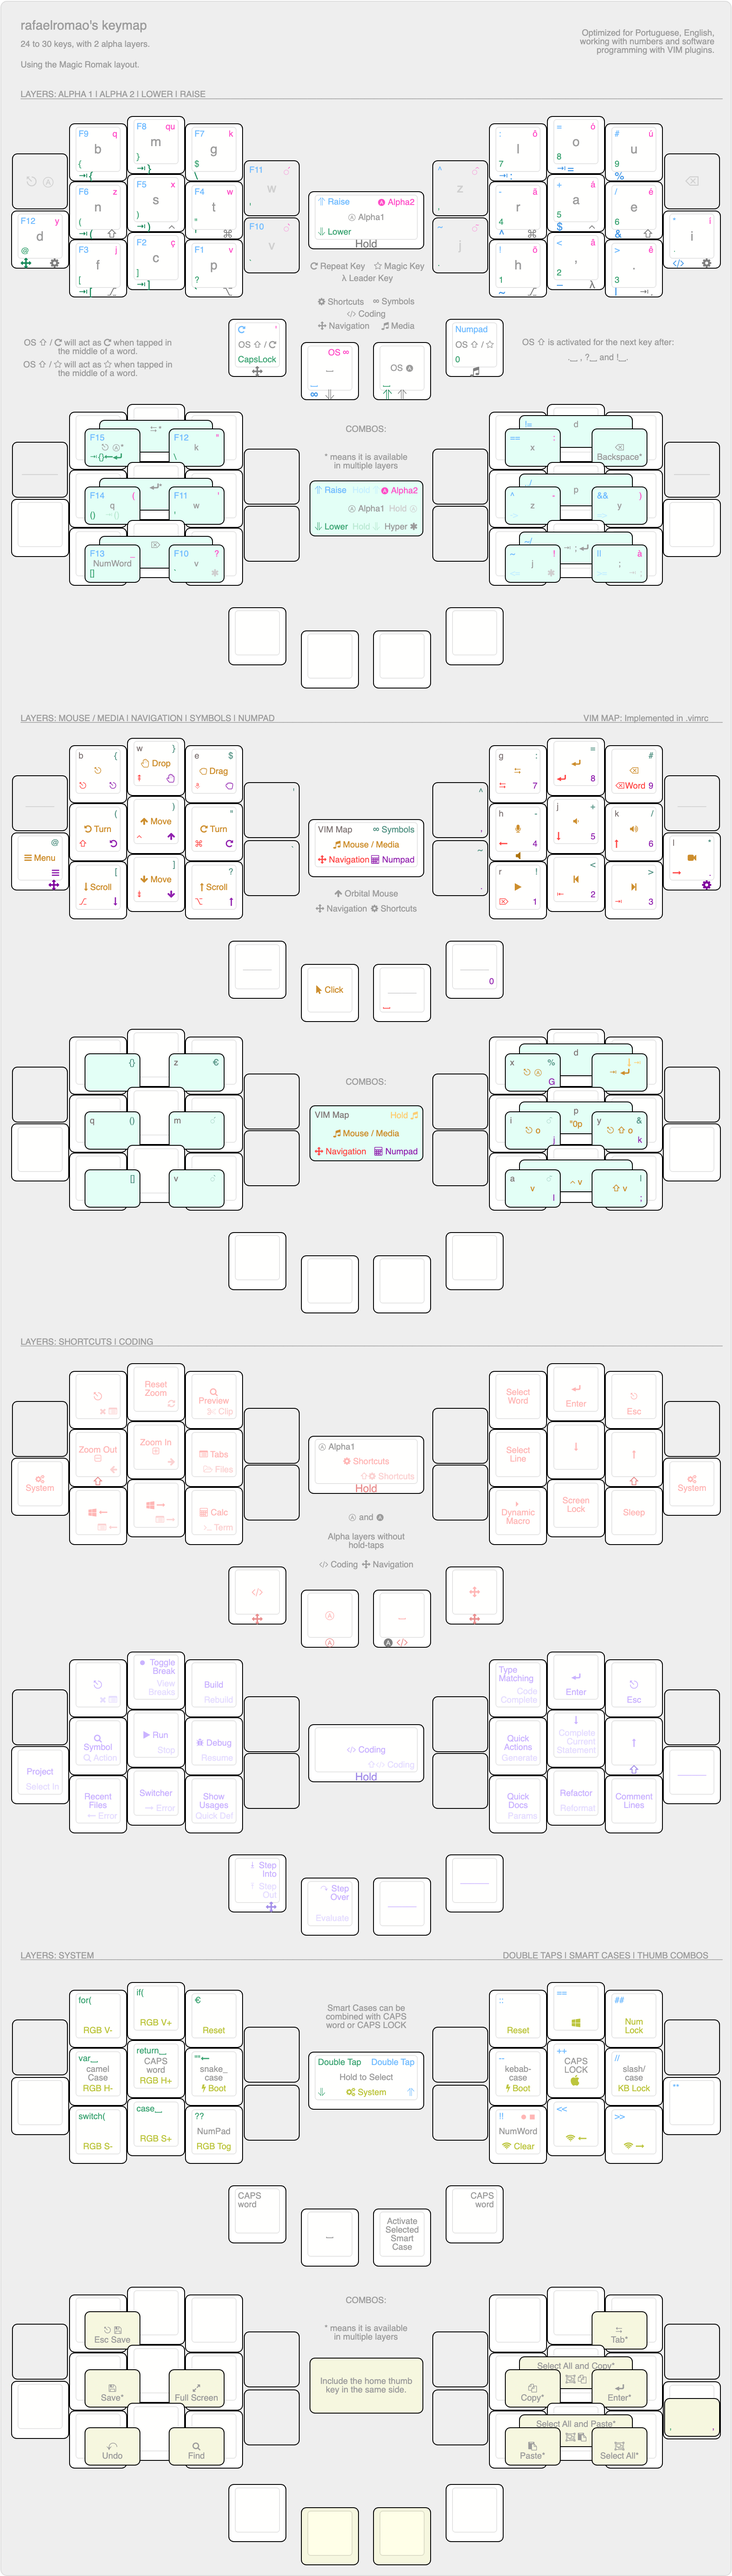
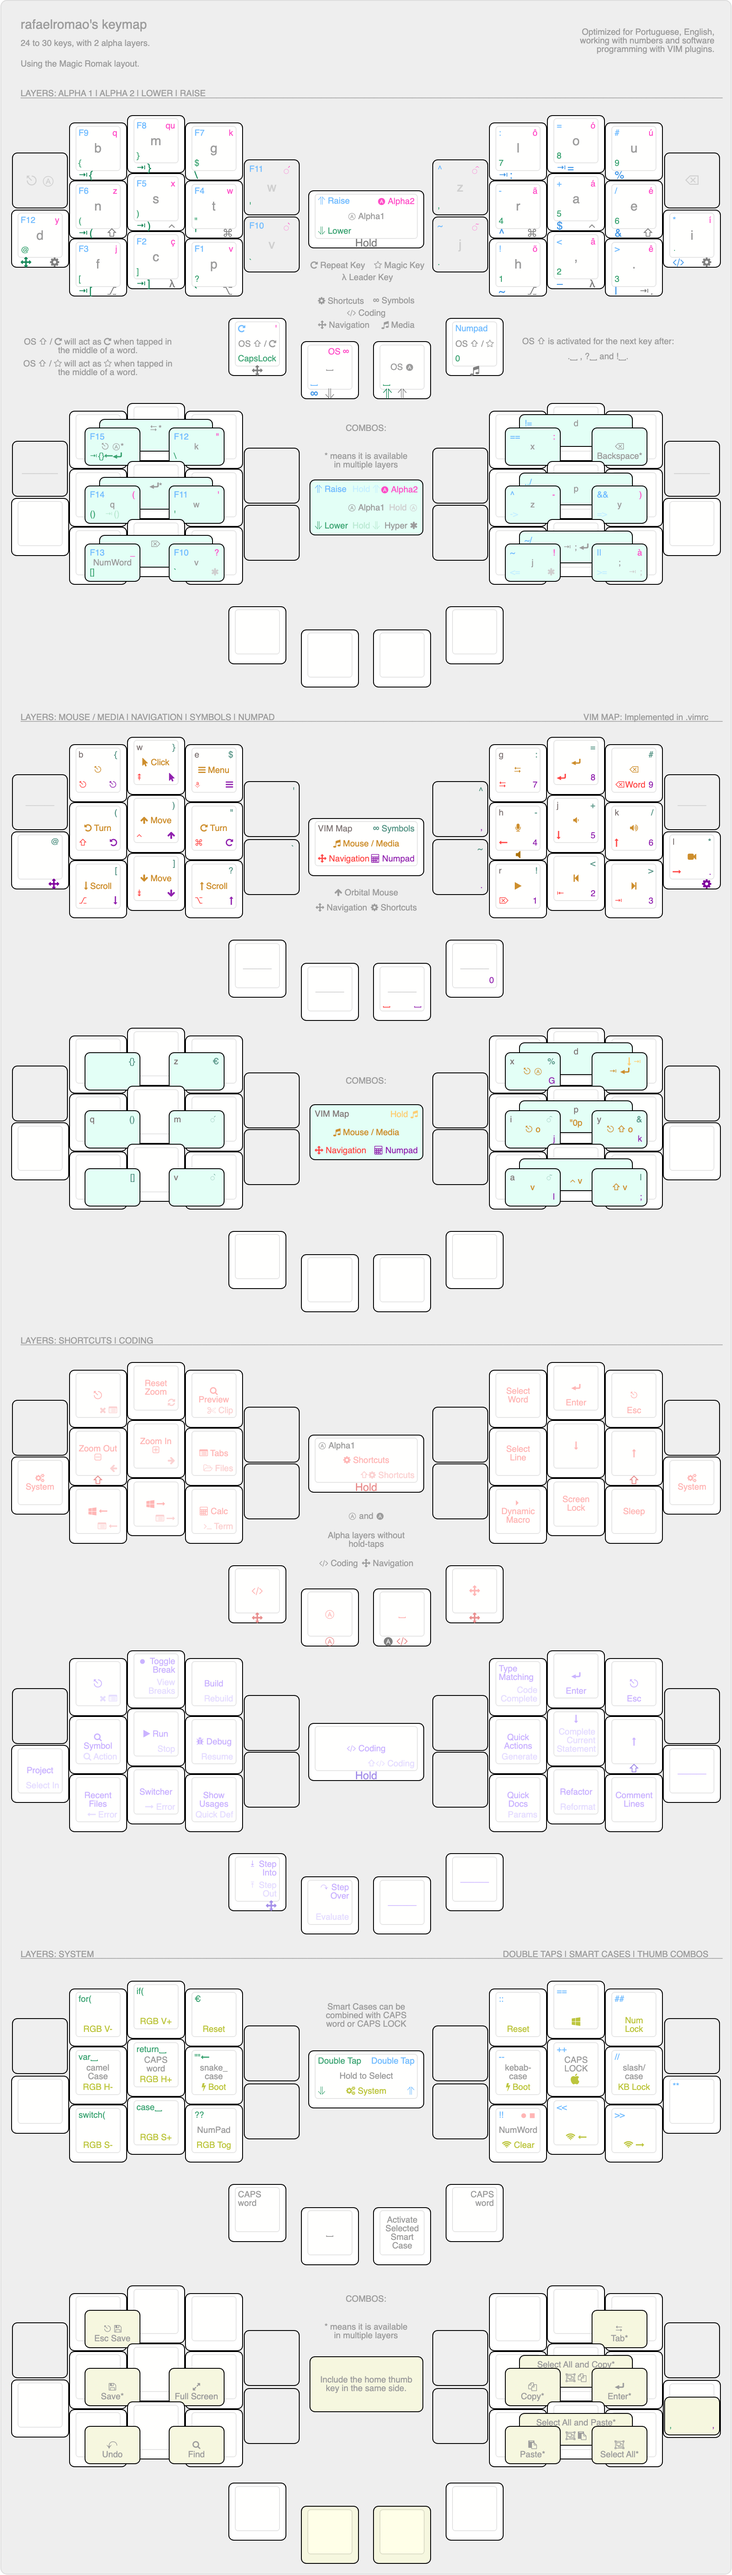
fix smartcase

diff --git a/src/qmk/users/rafaelromao/definitions/keymap_blocks.h b/src/qmk/users/rafaelromao/definitions/keymap_blocks.h
@@ -7,7 +7,7 @@
 
 #define __________________ALPHA1_L1__________           MC_ESCC , KC_B    , KC_M    , KC_G    
 #define __________________ALPHA1_L2____________________ SHO_KCD , LSFTT_N , LCTLT_S , LGUIT_T , KC_W
-#define           ________ALPHA1_L3____________________           RALTT_F , KC_C    , LALTT_P , KC_V
+#define           ________ALPHA1_L3____________________           RALTT_F , LEA_KCC , LALTT_P , KC_V
 #define                               ___ALPHA1_L4_____                               NAV_CAS , LOW_SPC
 
 #define           ________ALPHA1_R1____________________           KC_L    , KC_O    , KC_U    , KC_BSPC
@@ -35,10 +35,10 @@
 #define ___________________RAISE_R3__________           MC_TILD , TD_EXLM , TD_LT   , TD_GT     
 #define ____RAISE_R4_____                               _______ , TG_NUM
 
-#define ___________________NUMPAD_L1_________           _______ , MC_ESC  , OM_RELS , OM_HLDS  
-#define ___________________NUMPAD_L2___________________ OM_BTN2 , OM_L    , OM_U    , OM_R    , XXXXXXX
+#define ___________________NUMPAD_L1_________           _______ , MC_ESC  , OM_BTN1 , OM_BTN2  
+#define ___________________NUMPAD_L2___________________ XXXXXXX , OM_L    , OM_U    , OM_R    , XXXXXXX
 #define           _________NUMPAD_L3___________________           OM_W_D  , OM_D    , OM_W_U  , XXXXXXX
-#define                               ____NUMPAD_L4____                               NAV_FCA , OM_BTNS
+#define                               ____NUMPAD_L4____                               NAV_FCA , _______
 
 #define           _________NUMPAD_R1___________________           KC_7    , KC_8    , KC_9    , _______
 #define ___________________NUMPAD_R2___________________ KC_COMM , KC_4    , KC_5    , KC_6    , SHO_DOT
@@ -73,7 +73,7 @@
 #define           _________NOMOD_R1____________________           KC_L    , KC_O    , KC_U    , KC_Y
 #define ___________________NOMOD_R2____________________ KC_Z    , KC_R    , KC_A    , KC_E    , KC_I
 #define ___________________NOMOD_R3__________           KC_J    , KC_H    , KC_COMM , KC_DOT  
-#define ____NOMOD_R4_____                               MO_A2   , OS_LSFT
+#define ____NOMOD_R4_____                               OSL_A2  , OS_LSFT
 
 #define ___________________ALPHA2_L1_________           XXXXXXX , KC_Q    , MC_QU   , KC_K
 #define ___________________ALPHA2_L2___________________ KC_Y    , KC_Z    , KC_X    , KC_W    , KC_QUOT
@@ -107,10 +107,10 @@
 #define __NAVIGATION_R4__                               KC_SPC  , MED_CAS
 #define __FIXED_NAV__R4__                               KC_SPC  , TO_A1
 
-#define ___________________MEDIA_L1__________           _______ , MC_ESC  , OM_RELS , OM_HLDS  
-#define ___________________MEDIA_L2____________________ OM_BTN2 , OM_L    , OM_U    , OM_R    , XXXXXXX 
+#define ___________________MEDIA_L1__________           _______ , MC_ESC  , OM_BTN1 , OM_BTN2  
+#define ___________________MEDIA_L2____________________ XXXXXXX , OM_L    , OM_U    , OM_R    , XXXXXXX 
 #define           _________MEDIA_L3____________________           OM_W_D  , OM_D    , OM_W_U  , XXXXXXX 
-#define                               ____MEDIA_L4_____                               NAV_FCA , OM_BTNS
+#define                               ____MEDIA_L4_____                               NAV_FCA , _______
 
 #define           _________MEDIA_R1____________________           KC_TAB  , KC_ENT  , KC_BSPC , _______
 #define ___________________MEDIA_R2____________________ XXXXXXX , MC_MIC  , KC_VOLD , KC_VOLU , MC_CAM

diff --git a/src/qmk/users/rafaelromao/features/smart_thumbs.c b/src/qmk/users/rafaelromao/features/smart_thumbs.c
@@ -123,7 +123,6 @@ bool in_mid_word(uint16_t key, bool isMagic) {
             case KC_S:
             case KC_C:
             case KC_G:
-            case KC_MINUS:
                 return false;
         }
     }
@@ -152,6 +151,15 @@ bool in_mid_word(uint16_t key, bool isMagic) {
             return false;
     }
     return true;
+}
+
+void apply_repeat_magic_default(void) {
+    if (!has_any_smart_case()) {
+        add_oneshot_mods(MOD_LSFT);
+    } else {
+        disable_smart_case();
+        clear_shift();
+    }
 }
 
 void process_shift_repeat(uint16_t keycode) {
@@ -237,10 +245,17 @@ void process_shift_repeat(uint16_t keycode) {
                 tap_code(KC_M);
                 break;
             default:
-                tap_code16(key);
+                switch (key) {
+                    case KC_A ... KC_Z:
+                        tap_code16(key);
+                        break;
+                    default:
+                        apply_repeat_magic_default();
+                        break;
+                }
         }
     } else {
-        add_oneshot_mods(MOD_LSFT);
+        apply_repeat_magic_default();
     }
 }
 
@@ -342,10 +357,11 @@ void process_shift_magic(uint16_t keycode) {
                 tap_code(KC_SLSH);
                 break;
             default:
-                tap_code16(key);
+                apply_repeat_magic_default();
+                break;
         }
     } else {
-        add_oneshot_mods(MOD_LSFT);
+        apply_repeat_magic_default();
     }
 }
 
@@ -407,12 +423,7 @@ process_record_result_t process_smart_thumbs(uint16_t keycode, keyrecord_t *reco
             if (record->tap.count > 0) {
                 if (record->event.pressed) {
                     if (has_any_smart_case()) {
-                        if (!isOneShotShift) {
-                            add_oneshot_mods(MOD_MASK_SHIFT);
-                        } else {
-                            disable_smart_case();
-                            clear_shift();
-                        }
+                        activate_shift_repeat_or_magic_key(keycode);
                     } else {
                         if (!isOneShotShift) {
                             activate_shift_repeat_or_magic_key(keycode);

diff --git a/src/qmk/users/rafaelromao/features/combos.c b/src/qmk/users/rafaelromao/features/combos.c
@@ -6,18 +6,18 @@
 
 const uint16_t PROGMEM l_rom_k_combo[]   = {KC_M, KC_G, COMBO_END};
 const uint16_t PROGMEM l_rom_w_combo[]   = {LCTLT_S, LGUIT_T, COMBO_END};
-const uint16_t PROGMEM l_rom_v_combo[]   = {KC_C, LALTT_P, COMBO_END};
+const uint16_t PROGMEM l_rom_v_combo[]   = {LEA_KCC, LALTT_P, COMBO_END};
 const uint16_t PROGMEM l_rom_q_combo[]   = {LSFTT_N, LCTLT_S, COMBO_END};
-const uint16_t PROGMEM l_rom_num_combo[] = {RALTT_F, KC_C, COMBO_END};
+const uint16_t PROGMEM l_rom_num_combo[] = {RALTT_F, LEA_KCC, COMBO_END};
 const uint16_t PROGMEM l_rom_esc_combo[] = {KC_B, KC_M, COMBO_END};
 const uint16_t PROGMEM l_rom_esv_combo[] = {LOW_SPC, KC_B, KC_M, COMBO_END};
-const uint16_t PROGMEM l_rom_und_combo[] = {LOW_SPC, RALTT_F, KC_C, COMBO_END};
+const uint16_t PROGMEM l_rom_und_combo[] = {LOW_SPC, RALTT_F, LEA_KCC, COMBO_END};
 const uint16_t PROGMEM l_rom_sav_combo[] = {LOW_SPC, LSFTT_N, LCTLT_S, COMBO_END};
 const uint16_t PROGMEM l_rom_ful_combo[] = {LOW_SPC, LCTLT_S, LGUIT_T, COMBO_END};
-const uint16_t PROGMEM l_rom_fin_combo[] = {LOW_SPC, KC_C, LALTT_P, COMBO_END};
+const uint16_t PROGMEM l_rom_fin_combo[] = {LOW_SPC, LEA_KCC, LALTT_P, COMBO_END};
 const uint16_t PROGMEM l_rom_ent_combo[] = {LSFTT_N, LCTLT_S, LGUIT_T, COMBO_END};
 const uint16_t PROGMEM l_rom_tab_combo[] = {KC_B, KC_M, KC_G, COMBO_END};
-const uint16_t PROGMEM l_rom_del_combo[] = {RALTT_F, KC_C, LALTT_P, COMBO_END};
+const uint16_t PROGMEM l_rom_del_combo[] = {RALTT_F, LEA_KCC, LALTT_P, COMBO_END};
 
 const uint16_t PROGMEM r_rom_x_combo[]    = {KC_L, KC_O, COMBO_END};
 const uint16_t PROGMEM r_rom_z_combo[]    = {RGUIT_R, RCTLT_A, COMBO_END};

diff --git a/src/qmk/users/rafaelromao/rafaelromao.c b/src/qmk/users/rafaelromao/rafaelromao.c
@@ -31,6 +31,16 @@ bool process_record_user(uint16_t keycode, keyrecord_t *record) {
     process_orbital_mouse(keycode, record);
 #endif
 
+    // Process shortcuts
+    switch (process_shortcuts(keycode, record)) {
+        case PROCESS_RECORD_RETURN_TRUE:
+            return true;
+        case PROCESS_RECORD_RETURN_FALSE:
+            return false;
+        default:
+            break;
+    };
+
     // Process Sentence Case
     switch (process_sentence_case(keycode, record)) {
         case PROCESS_RECORD_RETURN_TRUE:
@@ -93,16 +103,6 @@ bool process_record_user(uint16_t keycode, keyrecord_t *record) {
 
     // Process accents
     switch (process_accents(keycode, record)) {
-        case PROCESS_RECORD_RETURN_TRUE:
-            return true;
-        case PROCESS_RECORD_RETURN_FALSE:
-            return false;
-        default:
-            break;
-    };
-
-    // Process common shortcuts
-    switch (process_shortcuts(keycode, record)) {
         case PROCESS_RECORD_RETURN_TRUE:
             return true;
         case PROCESS_RECORD_RETURN_FALSE:

diff --git a/src/qmk/users/rafaelromao/definitions/keycodes.h b/src/qmk/users/rafaelromao/definitions/keycodes.h
@@ -189,7 +189,9 @@ enum {
 #define RAI_TA2 LT(_RAISE, TG_ACNT)
 #define RAI_SPC LT(_RAISE, KC_SPC)
 #define SYM_SPC LT(_SYMBOLS, KC_SPC)
+#define LEA_KCC LT(_SYMBOLS, KC_C) // Hold behavior is implemented in intercepted code
 #define RAI_A2  OSL(_ALPHA2) // Hold behavior is implemented in intercepted code
+#define OSL_A2  OSL(_FIXED_ALPHA2) // We need the fixed alpha to distinguish from the intercepted RAI_A2
 
 #define SHO_KCD LT(_SHORTCUTS, KC_D)
 #define SHO_KCI LT(_SHORTCUTS, KC_I)
@@ -198,7 +200,6 @@ enum {
 #define COD_AST LT(_CODING, KC_ASTR)
 
 // Layer transitions
-#define MO_A2   MO(_FIXED_ALPHA2)
 #define MO_MED  MO(_MEDIA)
 #define MO_SYS  MO(_SYSTEM)
 #define TO_A1   TO(_ALPHA1)

diff --git a/src/qmk/users/rafaelromao/features/taphold.c b/src/qmk/users/rafaelromao/features/taphold.c
@@ -53,6 +53,17 @@ bool get_combo_must_tap(uint16_t index, combo_t *combo) {
 
 process_record_result_t process_taphold(uint16_t keycode, keyrecord_t *record) {
     switch (keycode) {
+        case LEA_KCC:
+            if (record->event.pressed && !record->tap.count) {
+#ifdef LEADER_ENABLE
+                leader_start();
+                return PROCESS_RECORD_RETURN_FALSE;
+#else
+                return PROCESS_RECORD_RETURN_TRUE;
+#endif
+            }
+            break;
+
         case NAV_AT:
             if (record->event.pressed && record->tap.count) {
                 tap_code16(KC_AT);

diff --git a/src/zmk/config/definitions/keycodes.h b/src/zmk/config/definitions/keycodes.h
@@ -18,3 +18,15 @@
 #define ATIL_TERM 0x070109
 #define OTIL_TERM 0x07010A
 #define AGRV_TERM 0x07010B
+#define C_QU_TERM 0x07010C
+#define C_AACU_TERM 0x07010D
+#define C_EACU_TERM 0x07010E
+#define C_IACU_TERM 0x07010F
+#define C_OACU_TERM 0x070110
+#define C_UACU_TERM 0x070111
+#define C_ACIR_TERM 0x070112
+#define C_ECIR_TERM 0x070113
+#define C_OCIR_TERM 0x070114
+#define C_ATIL_TERM 0x070115
+#define C_OTIL_TERM 0x070116
+#define C_AGRV_TERM 0x070117

diff --git a/src/qmk/users/rafaelromao/config.h b/src/qmk/users/rafaelromao/config.h
@@ -24,7 +24,7 @@
 #define TAPPING_TOGGLE 1
 
 // Configure leader key
-#define LEADER_TIMEOUT 1000
+#define LEADER_TIMEOUT 500
 #define LEADER_PER_KEY_TIMING
 
 // Configure combos
